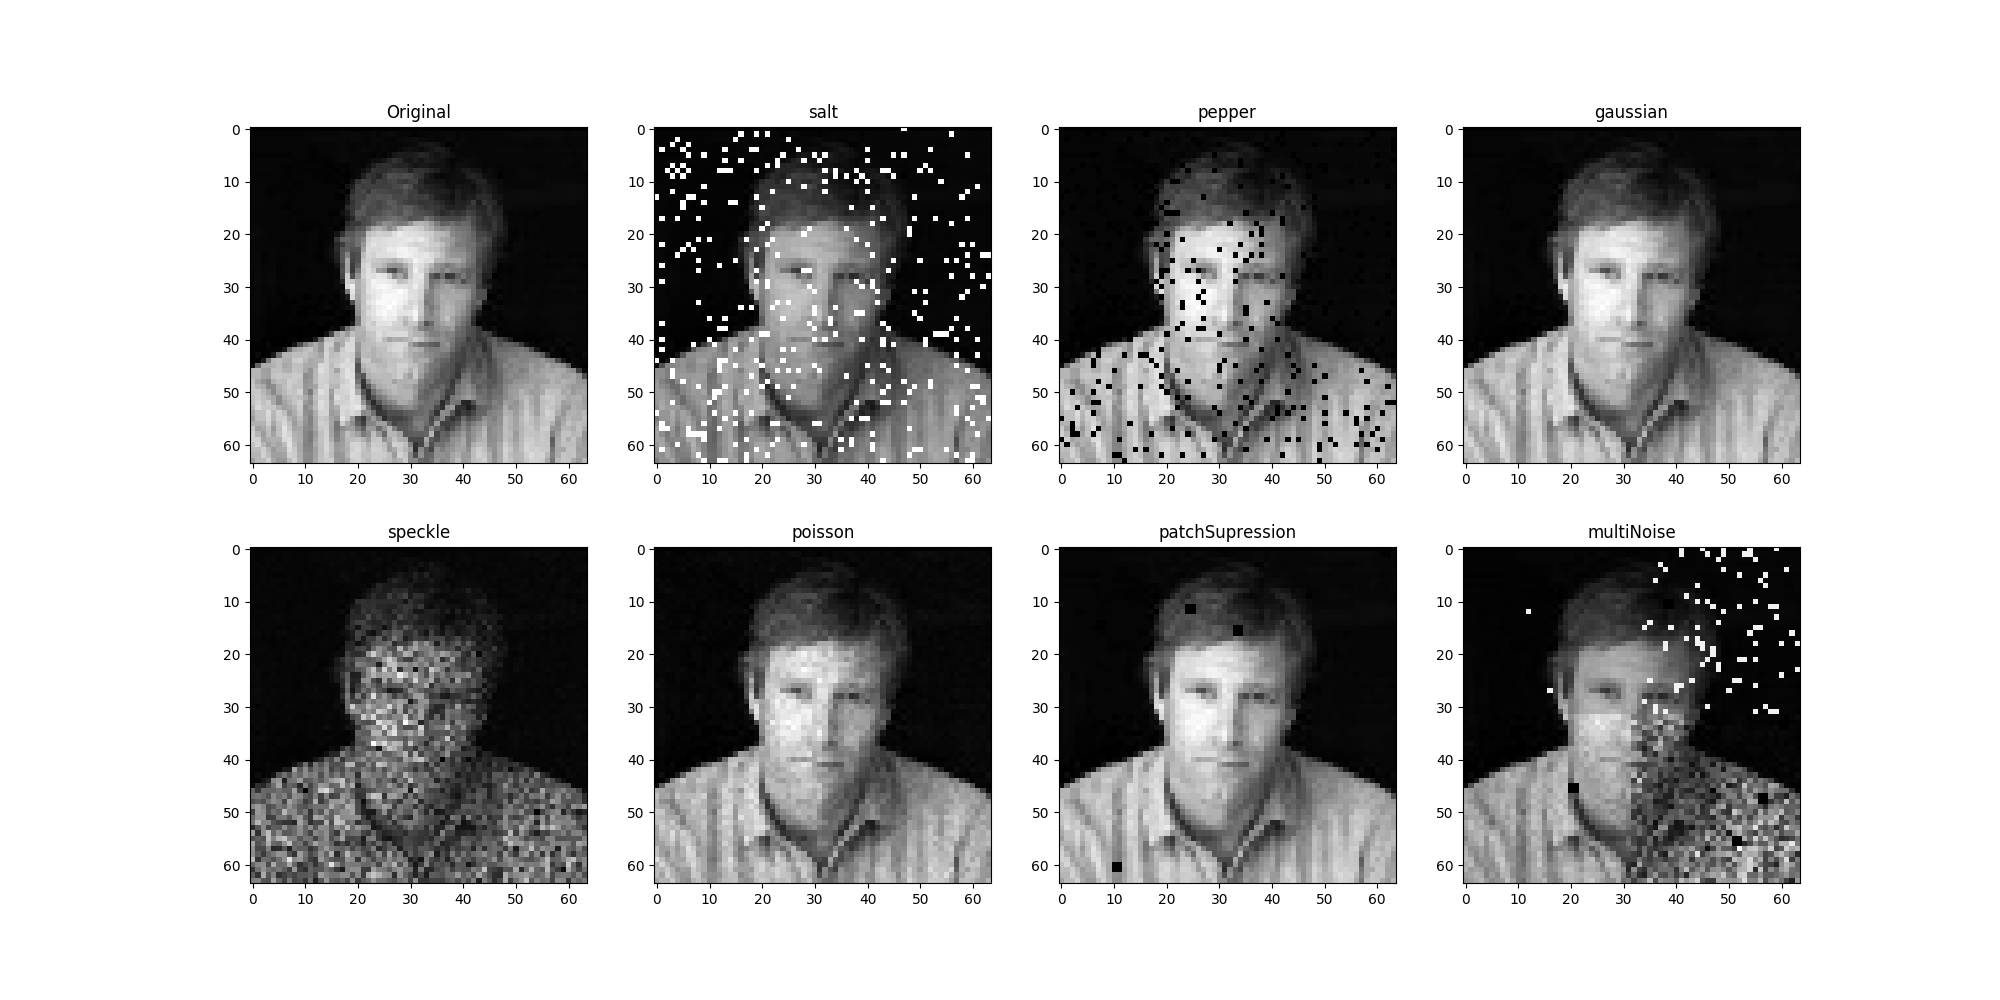
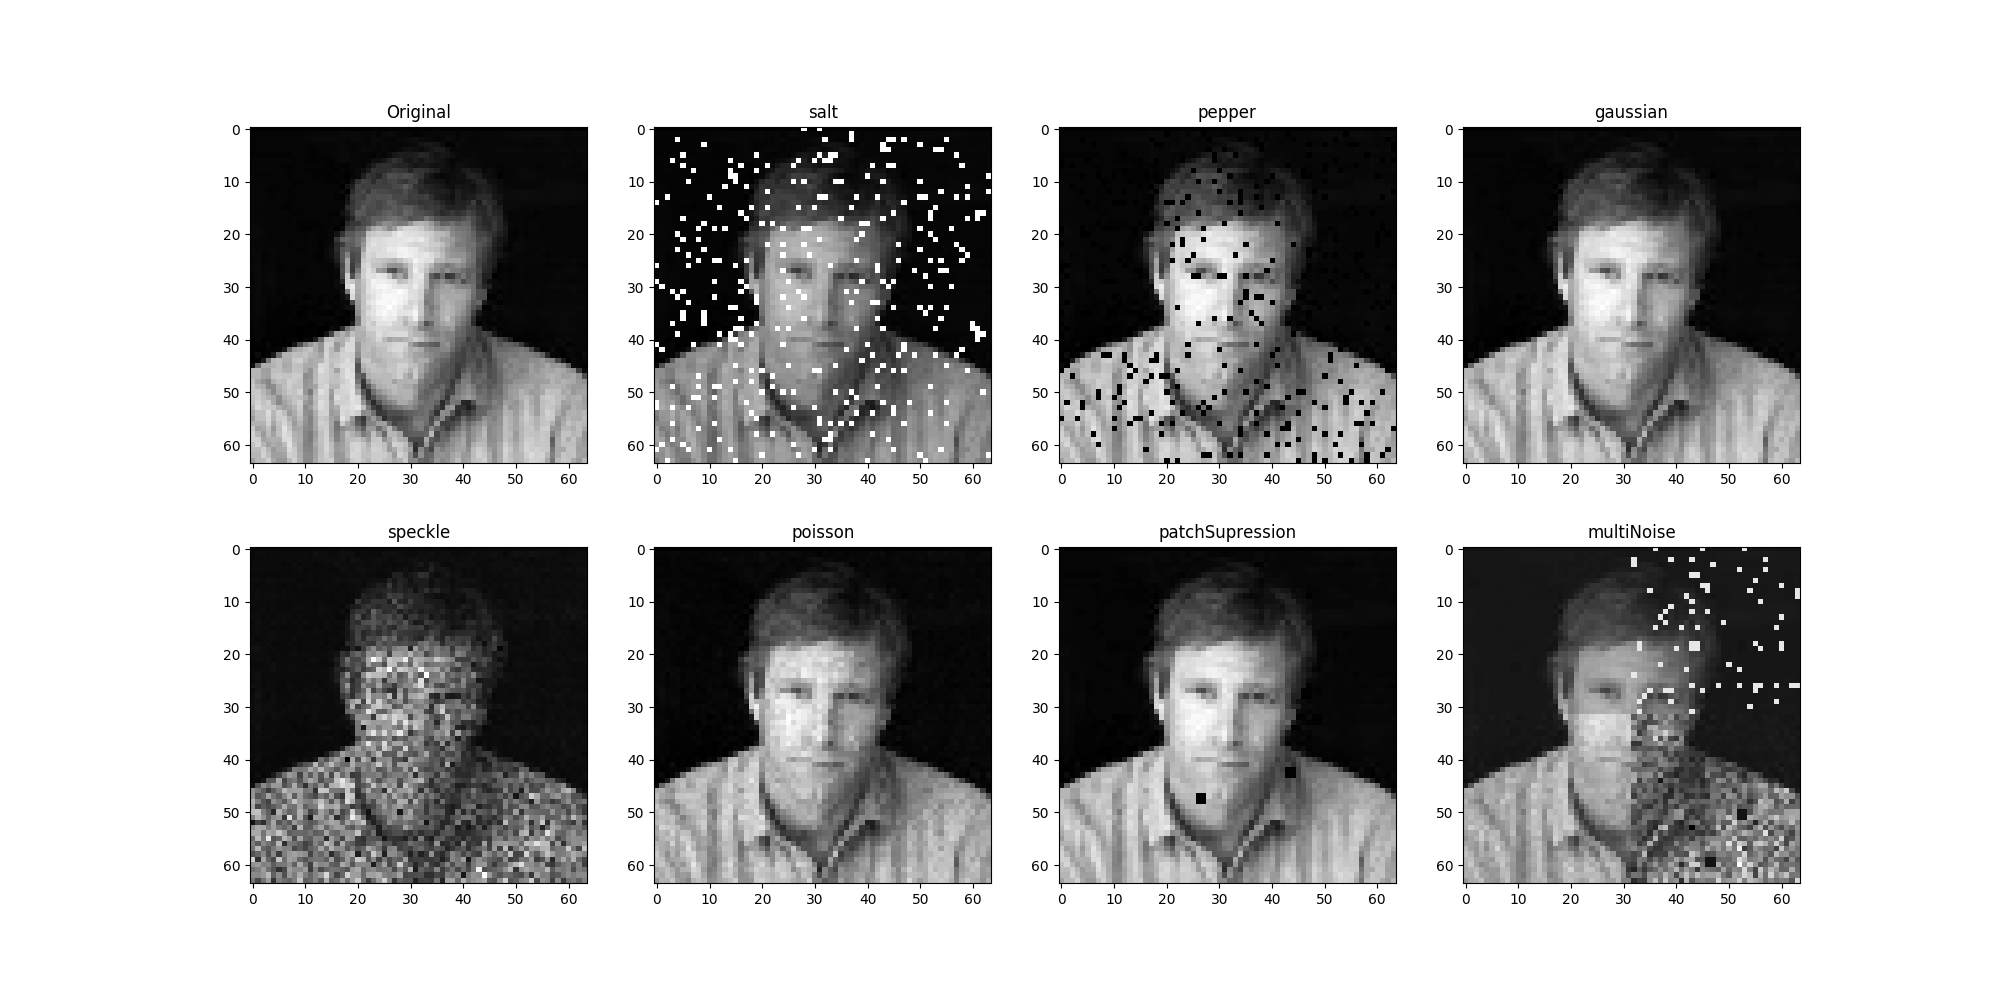
main debugging done

diff --git a/src/main.py b/src/main.py
@@ -35,6 +35,8 @@ if __name__ == "__main__":
         cnt += 1
 
     plt.savefig("1.png")
+    plt.cla()
+    plt.clf()
 
     denoise_class = Denoise(noise_class.multiNoiseImg)
     denoise_class.getAllNoises()
@@ -50,20 +52,28 @@ if __name__ == "__main__":
         cnt += 1
 
     plt.savefig("2.png")
+    plt.cla()
+    plt.clf()
 
     training_noise_kind = [ i for i in range(len(noisyImgs) - 2) ]
-    patch = 32
+    patch = 31
     noisy = noisyImgs[-1]
     model, alpha, eps = cobraModelInit(train_names, training_noise_kind, noisy.shape, patchSize=patch, best=False)
-    Y = cobraDenoise(noisy, model,noise_class, alpha, patchSize=patch)
+    Y = cobraDenoise(noisy, model,noise_class, alpha, p_size=patch)
     im_denoise = np.array(Y).reshape(noisy.shape)
     
 
     print('Display of the cobra denoising result')
     plt.imshow(im_denoise, cmap = plt.get_cmap('gray'))
     plt.savefig("3.png")
+    plt.cla()
+    plt.clf()
+
     print("Evaluation...")
     evaluate = denoiseEvaluation(im_denoise, noise_class.originalImg)
     evaluate.evaluateAll()
-    print("Displaying the difference between denoised image and original one...")
+    print("Saving the difference between denoised image and original one...")
     plt.imshow(evaluate.Idiff, cmap = plt.get_cmap('gray'))
+    plt.savefig("4.png")
+    plt.cla()
+    plt.clf()

diff --git a/src/helper.py b/src/helper.py
@@ -9,6 +9,7 @@ class denoiseEvaluation :
         self.PSNR = 0
         self.euclidianDist = 0
         self.RMSE = 0
+        self.Idiff = self.img1-self.img2
 
     def getPSNR(self, peak=255):
         """
@@ -75,4 +76,15 @@ def loadTrainingData(train_names, totNoises, k=0):
                 trainingData2 += [getNeighbours(v2, x, y, k)]
                 trainingData += [getNeighbours(noisyImg, x, y, k)]
 
+    # trainingData=np.array(trainingData).reshape(-1,1)
+    # trainingData1=np.array(trainingData1).reshape(-1,1)
+    # trainingData2=np.array(trainingData2).reshape(-1,1)
+    # testingData=np.array(testingData).reshape(-1,1)
+
+    trainingData=np.array(trainingData)
+    trainingData1=np.array(trainingData1)
+    trainingData2=np.array(trainingData2)
+    testingData=np.array(testingData)
+
+    print(trainingData.shape, trainingData1.shape, trainingData2.shape, testingData.shape)
     return (trainingData, trainingData1, trainingData2, testingData)

diff --git a/src/cobra.py b/src/cobra.py
@@ -14,6 +14,7 @@ def cobraModelInit(trainNames, noiseType, imShape, patchSize=1, best=True):
     epsilon = 0.2
     machines = 4
     cobra = Cobra(epsilon=epsilon, machines=machines)
+
     cobra.fit(trainingData, testingData)
 
     for i, denoise in enumerate(denoisemethods):
@@ -46,7 +47,7 @@ def cobraModelInit(trainNames, noiseType, imShape, patchSize=1, best=True):
 
     return cobra, machines, epsilon
 
-def cobraDenoise(noisy, model,noise_class, n_of_machines, p_size=1) :
+def cobraDenoise(noisy, model,noise_class, n_of_machines, p_size=1):
     print("Image denoising...")
     testX = []
     for x in range(p_size, noise_class.originalImg.shape[0]-p_size):
